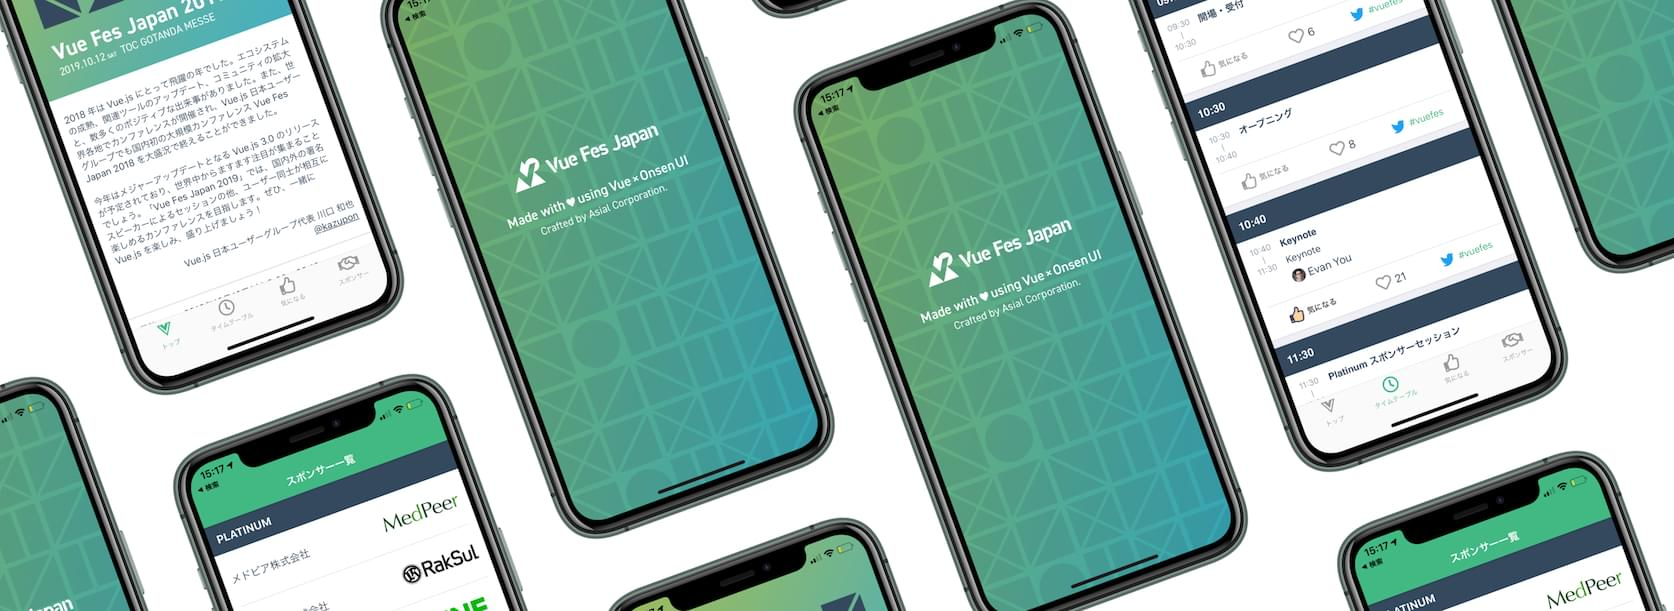
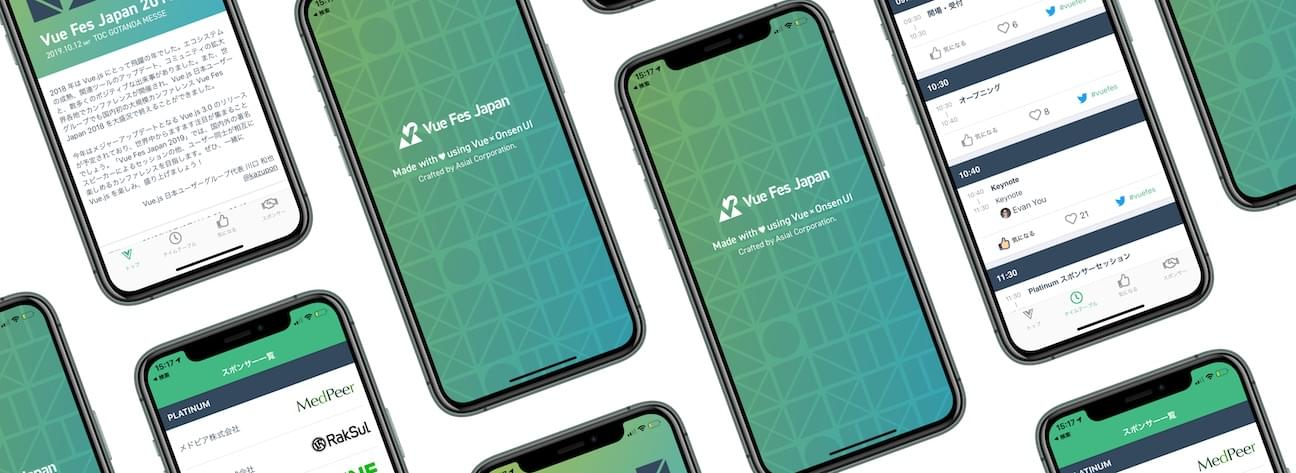
画像を 1296px のものに差し替えた

diff --git a/index.html b/index.html
@@ -26,7 +26,4 @@
 
   <h2>JPG</h2>
   <img src="images/mobile-app.jpg" alt="">
-
-  <h2>WebP</h2>
-  <img src="images/mobile-app.webp" alt="">
 </body>
